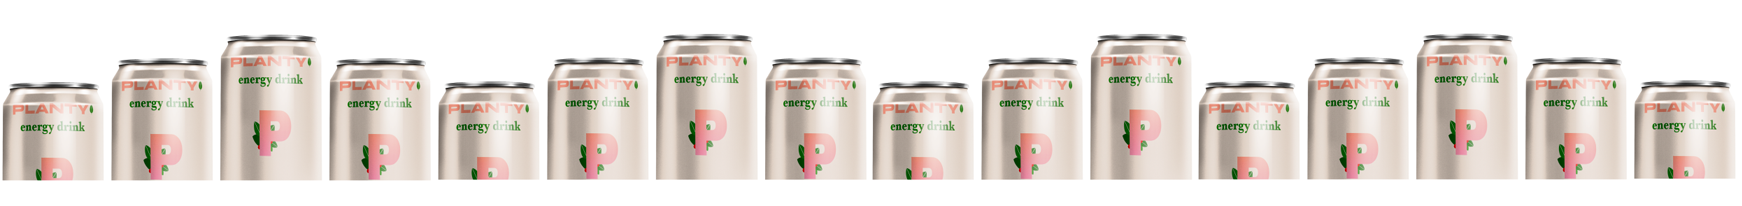
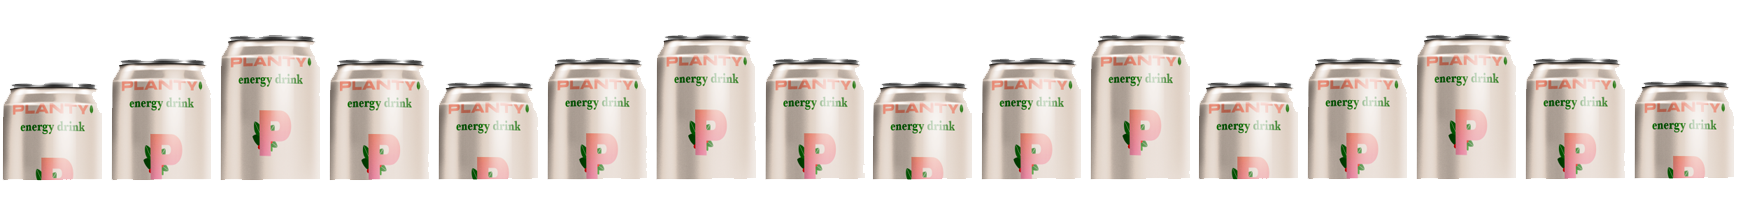
reglage bottom avec transparence et ajout header et footer page commander.php

diff --git a/wp-content/uploads/elementor/css/post-69.css b/wp-content/uploads/elementor/css/post-69.css
@@ -1,1 +1,1 @@
-.elementor-69 .elementor-element.elementor-element-904d933:not(.elementor-motion-effects-element-type-background), .elementor-69 .elementor-element.elementor-element-904d933 > .elementor-motion-effects-container > .elementor-motion-effects-layer{background-color:#ebe2da;}.elementor-69 .elementor-element.elementor-element-904d933{transition:background 0.3s, border 0.3s, border-radius 0.3s, box-shadow 0.3s;padding:70px 70px 70px 70px;}.elementor-69 .elementor-element.elementor-element-904d933 > .elementor-background-overlay{transition:background 0.3s, border-radius 0.3s, opacity 0.3s;}.elementor-69 .elementor-element.elementor-element-904d933 > .elementor-shape-bottom svg{height:40px;}.elementor-69 .elementor-element.elementor-element-92fb411{text-align:center;}.elementor-69 .elementor-element.elementor-element-92fb411 .elementor-heading-title{color:#3B8E46;font-family:"Syne", Sans-serif;font-size:39px;font-weight:800;text-transform:uppercase;}.elementor-69 .elementor-element.elementor-element-af4aeae{padding:31px 31px 31px 31px;}.elementor-69 .elementor-element.elementor-element-7418c0e{text-align:center;}.elementor-69 .elementor-element.elementor-element-7418c0e .elementor-heading-title{color:#3B8E46;}.elementor-69 .elementor-element.elementor-element-e5f09cd{text-align:center;}.elementor-69 .elementor-element.elementor-element-402f9ca:not(.elementor-motion-effects-element-type-background), .elementor-69 .elementor-element.elementor-element-402f9ca > .elementor-motion-effects-container > .elementor-motion-effects-layer{background-color:#EBE2DA;}.elementor-69 .elementor-element.elementor-element-402f9ca{transition:background 0.3s, border 0.3s, border-radius 0.3s, box-shadow 0.3s;padding:61px 61px 61px 61px;}.elementor-69 .elementor-element.elementor-element-402f9ca > .elementor-background-overlay{transition:background 0.3s, border-radius 0.3s, opacity 0.3s;}.elementor-69 .elementor-element.elementor-element-402f9ca > .elementor-shape-bottom svg{height:40px;}.elementor-69 .elementor-element.elementor-element-0388a9e{text-align:center;}.elementor-69 .elementor-element.elementor-element-0388a9e .elementor-heading-title{color:#D2776A;font-family:"Syne", Sans-serif;font-weight:800;text-transform:uppercase;}.elementor-69 .elementor-element.elementor-element-d64d236{text-align:center;}.elementor-69 .elementor-element.elementor-element-d7ce428 > .elementor-container{max-width:850px;}.elementor-69 .elementor-element.elementor-element-a4be92c > .elementor-container{max-width:850px;}.elementor-69 .elementor-element.elementor-element-c3f3cab .elementor-button{background-color:#E0B9B4;padding:20px 30px 20px 30px;}.elementor-69 .elementor-element.elementor-element-c3f3cab > .elementor-widget-container{margin:20px 20px 20px 20px;}.elementor-69 .elementor-element.elementor-element-807d6e1{margin-top:40px;margin-bottom:40px;}.elementor-69 .elementor-element.elementor-element-3acffa4{text-align:center;}.elementor-69 .elementor-element.elementor-element-3acffa4 .elementor-heading-title{color:#3B8E46;font-family:"Syne", Sans-serif;font-weight:800;}.elementor-bc-flex-widget .elementor-69 .elementor-element.elementor-element-36fae11.elementor-column .elementor-widget-wrap{align-items:flex-start;}.elementor-69 .elementor-element.elementor-element-36fae11.elementor-column.elementor-element[data-element_type="column"] > .elementor-widget-wrap.elementor-element-populated{align-content:flex-start;align-items:flex-start;}.elementor-69 .elementor-element.elementor-element-8bd61cf .elementor-heading-title{color:#3B8E46;}.elementor-bc-flex-widget .elementor-69 .elementor-element.elementor-element-c56bc26.elementor-column .elementor-widget-wrap{align-items:flex-start;}.elementor-69 .elementor-element.elementor-element-c56bc26.elementor-column.elementor-element[data-element_type="column"] > .elementor-widget-wrap.elementor-element-populated{align-content:flex-start;align-items:flex-start;}.elementor-69 .elementor-element.elementor-element-f6a43fd .elementor-heading-title{color:#3B8E46;}.elementor-bc-flex-widget .elementor-69 .elementor-element.elementor-element-0f3e8a8.elementor-column .elementor-widget-wrap{align-items:flex-start;}.elementor-69 .elementor-element.elementor-element-0f3e8a8.elementor-column.elementor-element[data-element_type="column"] > .elementor-widget-wrap.elementor-element-populated{align-content:flex-start;align-items:flex-start;}.elementor-69 .elementor-element.elementor-element-b6c323a .elementor-heading-title{color:#3B8E46;}:root{--page-title-display:none;}
+.elementor-69 .elementor-element.elementor-element-904d933:not(.elementor-motion-effects-element-type-background), .elementor-69 .elementor-element.elementor-element-904d933 > .elementor-motion-effects-container > .elementor-motion-effects-layer{background-color:#ebe2da;}.elementor-69 .elementor-element.elementor-element-904d933{transition:background 0.3s, border 0.3s, border-radius 0.3s, box-shadow 0.3s;padding:70px 70px 70px 70px;}.elementor-69 .elementor-element.elementor-element-904d933 > .elementor-background-overlay{transition:background 0.3s, border-radius 0.3s, opacity 0.3s;}.elementor-69 .elementor-element.elementor-element-904d933 > .elementor-shape-bottom svg{height:40px;}.elementor-69 .elementor-element.elementor-element-92fb411{text-align:center;}.elementor-69 .elementor-element.elementor-element-92fb411 .elementor-heading-title{color:#3B8E46;font-family:"Syne", Sans-serif;font-size:39px;font-weight:800;text-transform:uppercase;}.elementor-69 .elementor-element.elementor-element-af4aeae{padding:31px 31px 31px 31px;}.elementor-69 .elementor-element.elementor-element-7418c0e{text-align:center;}.elementor-69 .elementor-element.elementor-element-7418c0e .elementor-heading-title{color:#3B8E46;}.elementor-69 .elementor-element.elementor-element-e5f09cd{text-align:center;}.elementor-69 .elementor-element.elementor-element-402f9ca:not(.elementor-motion-effects-element-type-background), .elementor-69 .elementor-element.elementor-element-402f9ca > .elementor-motion-effects-container > .elementor-motion-effects-layer{background-color:#EBE2DA;}.elementor-69 .elementor-element.elementor-element-402f9ca{transition:background 0.3s, border 0.3s, border-radius 0.3s, box-shadow 0.3s;padding:61px 61px 61px 61px;}.elementor-69 .elementor-element.elementor-element-402f9ca > .elementor-background-overlay{transition:background 0.3s, border-radius 0.3s, opacity 0.3s;}.elementor-69 .elementor-element.elementor-element-402f9ca > .elementor-shape-bottom svg{height:40px;}.elementor-69 .elementor-element.elementor-element-0388a9e{text-align:center;}.elementor-69 .elementor-element.elementor-element-0388a9e .elementor-heading-title{color:#D2776A;font-family:"Syne", Sans-serif;font-weight:800;text-transform:uppercase;}.elementor-69 .elementor-element.elementor-element-d64d236{text-align:center;}.elementor-69 .elementor-element.elementor-element-d7ce428 > .elementor-container{max-width:850px;}.elementor-69 .elementor-element.elementor-element-a4be92c > .elementor-container{max-width:850px;}.elementor-69 .elementor-element.elementor-element-c3f3cab .elementor-button{background-color:#E0B9B4;padding:20px 30px 20px 30px;}.elementor-69 .elementor-element.elementor-element-c3f3cab > .elementor-widget-container{margin:20px 20px 20px 20px;}.elementor-69 .elementor-element.elementor-element-807d6e1{margin-top:40px;margin-bottom:40px;}.elementor-69 .elementor-element.elementor-element-3acffa4{text-align:center;}.elementor-69 .elementor-element.elementor-element-3acffa4 .elementor-heading-title{color:#3B8E46;font-family:"Syne", Sans-serif;font-weight:800;}.elementor-69 .elementor-element.elementor-element-73aac89{padding:0px 0px 17px 0px;}.elementor-bc-flex-widget .elementor-69 .elementor-element.elementor-element-36fae11.elementor-column .elementor-widget-wrap{align-items:flex-start;}.elementor-69 .elementor-element.elementor-element-36fae11.elementor-column.elementor-element[data-element_type="column"] > .elementor-widget-wrap.elementor-element-populated{align-content:flex-start;align-items:flex-start;}.elementor-69 .elementor-element.elementor-element-8bd61cf .elementor-heading-title{color:#3B8E46;}.elementor-bc-flex-widget .elementor-69 .elementor-element.elementor-element-c56bc26.elementor-column .elementor-widget-wrap{align-items:flex-start;}.elementor-69 .elementor-element.elementor-element-c56bc26.elementor-column.elementor-element[data-element_type="column"] > .elementor-widget-wrap.elementor-element-populated{align-content:flex-start;align-items:flex-start;}.elementor-69 .elementor-element.elementor-element-f6a43fd .elementor-heading-title{color:#3B8E46;}.elementor-bc-flex-widget .elementor-69 .elementor-element.elementor-element-0f3e8a8.elementor-column .elementor-widget-wrap{align-items:flex-start;}.elementor-69 .elementor-element.elementor-element-0f3e8a8.elementor-column.elementor-element[data-element_type="column"] > .elementor-widget-wrap.elementor-element-populated{align-content:flex-start;align-items:flex-start;}.elementor-69 .elementor-element.elementor-element-b6c323a .elementor-heading-title{color:#3B8E46;}:root{--page-title-display:none;}

diff --git a/wp-content/uploads/elementor/css/post-37.css b/wp-content/uploads/elementor/css/post-37.css
@@ -1,1 +1,1 @@
-.elementor-37 .elementor-element.elementor-element-9782cd8:not(.elementor-motion-effects-element-type-background), .elementor-37 .elementor-element.elementor-element-9782cd8 > .elementor-motion-effects-container > .elementor-motion-effects-layer{background-color:#EBE2DA;}.elementor-37 .elementor-element.elementor-element-9782cd8{transition:background 0.3s, border 0.3s, border-radius 0.3s, box-shadow 0.3s;margin-top:0px;margin-bottom:0px;padding:90px 0px 40px 0px;}.elementor-37 .elementor-element.elementor-element-9782cd8 > .elementor-background-overlay{transition:background 0.3s, border-radius 0.3s, opacity 0.3s;}.elementor-37 .elementor-element.elementor-element-9782cd8 > .elementor-shape-bottom svg{height:40px;}.elementor-37 .elementor-element.elementor-element-44f4cbb.elementor-column > .elementor-widget-wrap{justify-content:center;}.elementor-37 .elementor-element.elementor-element-12b838d{text-align:center;}.elementor-37 .elementor-element.elementor-element-12b838d .elementor-heading-title{color:#D2776A;font-family:"Syne", Sans-serif;font-weight:800;text-transform:uppercase;}.elementor-37 .elementor-element.elementor-element-3b6ec63{text-align:center;width:var( --container-widget-width, 54% );max-width:54%;--container-widget-width:54%;--container-widget-flex-grow:0;}.elementor-37 .elementor-element.elementor-element-3b6ec63 > .elementor-widget-container{padding:0px 0px 0px 0px;}.elementor-37 .elementor-element.elementor-element-12bc3e5{padding:40px 0px 16px 0px;}.elementor-37 .elementor-element.elementor-element-ccd7ee9{text-align:center;}.elementor-37 .elementor-element.elementor-element-b45c3e6 > .elementor-container{max-width:850px;}.elementor-37 .elementor-element.elementor-element-bb48814{text-align:center;}.elementor-37 .elementor-element.elementor-element-63ae9fd{text-align:center;}.elementor-37 .elementor-element.elementor-element-f1a3705{text-align:center;}.elementor-37 .elementor-element.elementor-element-9278f7d{text-align:center;}.elementor-37 .elementor-element.elementor-element-47645cd{text-align:center;}.elementor-37 .elementor-element.elementor-element-bb6fd3f{text-align:center;}.elementor-37 .elementor-element.elementor-element-cb9cb1e:not(.elementor-motion-effects-element-type-background), .elementor-37 .elementor-element.elementor-element-cb9cb1e > .elementor-motion-effects-container > .elementor-motion-effects-layer{background-color:#EBE2DA;}.elementor-37 .elementor-element.elementor-element-cb9cb1e{transition:background 0.3s, border 0.3s, border-radius 0.3s, box-shadow 0.3s;padding:60px 0px 35px 0px;}.elementor-37 .elementor-element.elementor-element-cb9cb1e > .elementor-background-overlay{transition:background 0.3s, border-radius 0.3s, opacity 0.3s;}.elementor-37 .elementor-element.elementor-element-1c31cfe.elementor-column > .elementor-widget-wrap{justify-content:center;}.elementor-37 .elementor-element.elementor-element-75afd18{text-align:center;}.elementor-37 .elementor-element.elementor-element-5c78fc5 > .elementor-container{max-width:400px;}.elementor-37 .elementor-element.elementor-element-5c78fc5:not(.elementor-motion-effects-element-type-background), .elementor-37 .elementor-element.elementor-element-5c78fc5 > .elementor-motion-effects-container > .elementor-motion-effects-layer{background-color:#EBE2DA;}.elementor-37 .elementor-element.elementor-element-5c78fc5{transition:background 0.3s, border 0.3s, border-radius 0.3s, box-shadow 0.3s;}.elementor-37 .elementor-element.elementor-element-5c78fc5 > .elementor-background-overlay{transition:background 0.3s, border-radius 0.3s, opacity 0.3s;}:root{--page-title-display:none;}
+.elementor-37 .elementor-element.elementor-element-9782cd8:not(.elementor-motion-effects-element-type-background), .elementor-37 .elementor-element.elementor-element-9782cd8 > .elementor-motion-effects-container > .elementor-motion-effects-layer{background-color:#EBE2DA;}.elementor-37 .elementor-element.elementor-element-9782cd8{transition:background 0.3s, border 0.3s, border-radius 0.3s, box-shadow 0.3s;margin-top:0px;margin-bottom:0px;padding:90px 0px 40px 0px;}.elementor-37 .elementor-element.elementor-element-9782cd8 > .elementor-background-overlay{transition:background 0.3s, border-radius 0.3s, opacity 0.3s;}.elementor-37 .elementor-element.elementor-element-9782cd8 > .elementor-shape-bottom svg{height:40px;}.elementor-37 .elementor-element.elementor-element-44f4cbb.elementor-column > .elementor-widget-wrap{justify-content:center;}.elementor-37 .elementor-element.elementor-element-12b838d{text-align:center;}.elementor-37 .elementor-element.elementor-element-12b838d .elementor-heading-title{color:#D2776A;font-family:"Syne", Sans-serif;font-weight:800;text-transform:uppercase;}.elementor-37 .elementor-element.elementor-element-3b6ec63{text-align:center;width:var( --container-widget-width, 54% );max-width:54%;--container-widget-width:54%;--container-widget-flex-grow:0;}.elementor-37 .elementor-element.elementor-element-3b6ec63 > .elementor-widget-container{padding:0px 0px 0px 0px;}.elementor-37 .elementor-element.elementor-element-12bc3e5{padding:40px 0px 16px 0px;}.elementor-37 .elementor-element.elementor-element-ccd7ee9{text-align:center;}.elementor-37 .elementor-element.elementor-element-b45c3e6 > .elementor-container{max-width:850px;}.elementor-37 .elementor-element.elementor-element-bb48814{text-align:center;}.elementor-37 .elementor-element.elementor-element-63ae9fd{text-align:center;}.elementor-37 .elementor-element.elementor-element-f1a3705{text-align:center;}.elementor-37 .elementor-element.elementor-element-9278f7d{text-align:center;}.elementor-37 .elementor-element.elementor-element-47645cd{text-align:center;}.elementor-37 .elementor-element.elementor-element-bb6fd3f{text-align:center;}.elementor-37 .elementor-element.elementor-element-cb9cb1e:not(.elementor-motion-effects-element-type-background), .elementor-37 .elementor-element.elementor-element-cb9cb1e > .elementor-motion-effects-container > .elementor-motion-effects-layer{background-color:#EBE2DA;}.elementor-37 .elementor-element.elementor-element-cb9cb1e{transition:background 0.3s, border 0.3s, border-radius 0.3s, box-shadow 0.3s;padding:60px 0px 30px 0px;}.elementor-37 .elementor-element.elementor-element-cb9cb1e > .elementor-background-overlay{transition:background 0.3s, border-radius 0.3s, opacity 0.3s;}.elementor-37 .elementor-element.elementor-element-1c31cfe.elementor-column > .elementor-widget-wrap{justify-content:center;}.elementor-37 .elementor-element.elementor-element-75afd18{text-align:center;}.elementor-37 .elementor-element.elementor-element-5c78fc5 > .elementor-container{max-width:400px;}.elementor-37 .elementor-element.elementor-element-5c78fc5:not(.elementor-motion-effects-element-type-background), .elementor-37 .elementor-element.elementor-element-5c78fc5 > .elementor-motion-effects-container > .elementor-motion-effects-layer{background-color:#EBE2DA;}.elementor-37 .elementor-element.elementor-element-5c78fc5{transition:background 0.3s, border 0.3s, border-radius 0.3s, box-shadow 0.3s;margin-top:0px;margin-bottom:-138px;padding:0px 0px 128px 0px;}.elementor-37 .elementor-element.elementor-element-5c78fc5 > .elementor-background-overlay{transition:background 0.3s, border-radius 0.3s, opacity 0.3s;}:root{--page-title-display:none;}

diff --git a/wp-content/uploads/elementor/css/post-52.css b/wp-content/uploads/elementor/css/post-52.css
@@ -1,1 +1,1 @@
-.elementor-52 .elementor-element.elementor-element-e68a6b6{color:#000000;}.elementor-52 .elementor-element.elementor-element-14eddcf{text-align:center;color:#000000;font-family:"Roboto", Sans-serif;font-weight:400;}
+.elementor-52 .elementor-element.elementor-element-e68a6b6{transition:background 0.3s, border 0.3s, border-radius 0.3s, box-shadow 0.3s;color:#000000;padding:0px 0px -119px 0px;}.elementor-52 .elementor-element.elementor-element-e68a6b6 > .elementor-background-overlay{transition:background 0.3s, border-radius 0.3s, opacity 0.3s;}.elementor-52 .elementor-element.elementor-element-14eddcf{text-align:center;color:#000000;font-family:"Roboto", Sans-serif;font-weight:400;}

diff --git a/wp-content/uploads/elementor/css/post-578.css b/wp-content/uploads/elementor/css/post-578.css
@@ -1,0 +1,1 @@
+.elementor-578 .elementor-element.elementor-element-fe50034{text-align:left;}.elementor-578 .elementor-element.elementor-element-ec3c06a .elementor-menu-toggle{margin:0 auto;}.elementor-578 .elementor-element.elementor-element-ec3c06a{width:var( --container-widget-width, 171.885% );max-width:171.885%;--container-widget-width:171.885%;--container-widget-flex-grow:0;}@media(min-width:768px){.elementor-578 .elementor-element.elementor-element-0375c04{width:59.095%;}.elementor-578 .elementor-element.elementor-element-c64dced{width:40.237%;}}

diff --git a/wp-content/themes/hello-child/style.css b/wp-content/themes/hello-child/style.css
@@ -272,13 +272,14 @@ footer {
 footer::before {
   content: "";
   background-image: url("assets/images/cannettes-footer.png");
+  /* background-color: #EBE2DA; */
   background-size: cover;
   position: absolute;
   top: 0;
   left: 0;
   width: 100%;
-  height: 145px;
-  z-index: -1;
+  height: 138px;
+  z-index: 1;
 }
 
 /*Responsive*/

diff --git a/wp-content/themes/hello-child/functions.php b/wp-content/themes/hello-child/functions.php
@@ -22,3 +22,28 @@ function hello_elementor_child_enqueue_scripts() {
 }
 add_action( 'wp_enqueue_scripts', 'hello_elementor_child_enqueue_scripts', 20 );    
 
+/* afficher le menu admin que si user connecté */
+
+function hello_elementor_child_menu_args( $args ) {
+    if ( is_user_logged_in() ) {
+        $args['menu'] = 'mainmenu';
+    } else {
+        $args['menu'] = 'mainmenu-notlogged';
+    }
+    return $args;
+}
+add_filter( 'wp_nav_menu_args', 'hello_elementor_child_menu_args' );
+
+/* afficher un footer diff selon la page */
+/* function isPageCommander( $args ) {
+
+if(is_page( 'commander' )){
+	
+}
+
+
+}
+add_filter( 'wp_nav_menu_args', 'isPageCommander' ); */
+
+?>
+

diff --git a/wp-content/themes/hello-child/commander.php b/wp-content/themes/hello-child/commander.php
@@ -9,7 +9,11 @@ if ($_SERVER["REQUEST_METHOD"] == "POST") {
     $adresse = $_POST["adresse"];
     $cp = $_POST["cp"];
     $ville = $_POST["ville"];
-
+}
+/*
+Template Name: Commander
+*/
+get_header();
     // Vérification des données reçues
    /*  if (empty($nom) || empty($prenom) || empty($email) || empty($adresse) || empty($cp) || empty($ville)) {
         echo "Veuillez remplir tous les champs obligatoires";
@@ -31,6 +35,5 @@ if ($_SERVER["REQUEST_METHOD"] == "POST") {
         } else {
             echo "Une erreur est survenue lors de l'envoi de l'e-mail de confirmation.";
         } */
-    }
-
+get_footer();
 ?>

diff --git a/wp-content/themes/hello-elementor/template-parts/header.php b/wp-content/themes/hello-elementor/template-parts/header.php
@@ -44,7 +44,7 @@ $header_nav_menu = wp_nav_menu( [
 		<nav class="site-navigation">
 			<?php
 			// PHPCS - escaped by WordPress with "wp_nav_menu"
-			echo $header_nav_menu; // phpcs:ignore WordPress.Security.EscapeOutput.OutputNotEscaped
+			//echo $header_nav_menu; // phpcs:ignore WordPress.Security.EscapeOutput.OutputNotEscaped
 			?>
 		</nav>
 	<?php endif; ?>
